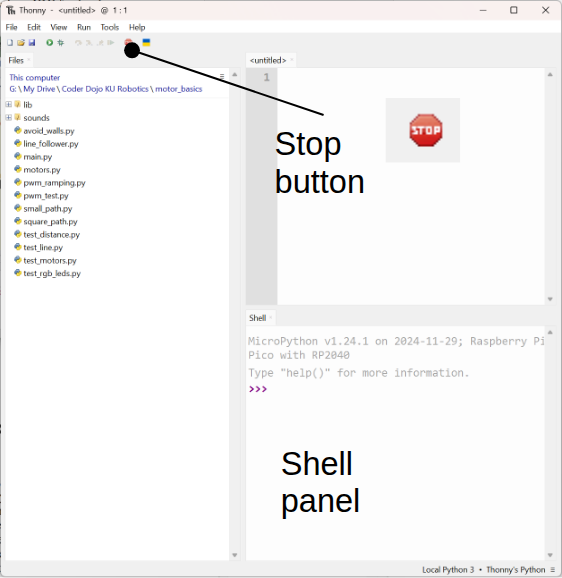
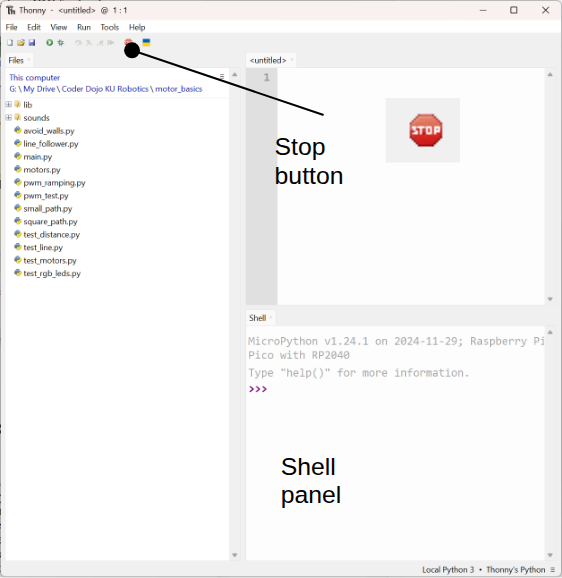
Connecting Thonny: larger connected screenshot (labels keep their size), right side reworded as 'If you see this'

Changed region(s): [[0.484, 0.7785, 0.6655, 0.9031], [0.484, 0.218, 0.6655, 0.3426]]

diff --git a/scripts/compose_connecting_thonny.py b/scripts/compose_connecting_thonny.py
@@ -37,6 +37,8 @@ FIGURES = {
     "thonny-pick-interpreter": (6, (0, 6250, 5930.3, 3489)),  # drops the blank canvas above the label
     "thonny-connected": (7, (0, 0, 2922.4, 3009.8)),  # the window only; its output snippets are code blocks in the sheet
 }
+# figures shown larger than the doc had them: shrink their label text by the same factor so captions keep their size
+LABEL_SHRINK = {"thonny-connected": 64 / 84}  # printed 64mm in the doc's layout, 84mm in the sheet
 # picture that is a plain-black line drawing, traced to a vector (picture name -> trace threshold)
 TRACED = {"100002010000058F000004790E84FCF353565544.png": 140}
 # pictures outside any drawing, copied as-is: ODT picture -> asset name (hero images are downsized)
@@ -131,6 +133,11 @@ def banner_svg():
             'stroke-width="4" stroke-dasharray="14 10"/></svg>')
 
 
+def shrink_labels(svg, factor):
+    """Scale every label's font size and line step (the leaders and pictures stay put)."""
+    return re.sub(r'(font-size|dy)="([\d.]+)"', lambda m: f'{m.group(1)}="{float(m.group(2)) * factor:.1f}"', svg)
+
+
 def figure(name, svg, box, work):
     for pic, threshold in TRACED.items():
         if pic in svg:
@@ -139,6 +146,8 @@ def figure(name, svg, box, work):
             svg = svg.replace(f"pictures/{pic}", traced.as_uri())
     svg = svg.replace('href="pictures/', f'href="{PICTURES.as_uri()}/')
     svg = svg.replace("<defs>", f'<style>@font-face {{ font-family: Arimo; src: url("{FONT.as_uri()}"); }}</style><defs>', 1)
+    if name in LABEL_SHRINK:
+        svg = shrink_labels(svg, LABEL_SHRINK[name])
     if box:
         svg = crop(svg, box)
     page = work / f"{name}.svg"

diff --git a/sheets/connecting-thonny.md b/sheets/connecting-thonny.md
@@ -80,10 +80,10 @@ We will be writing our own code, so ignore code that is already on the robot. Th
 
 :::: side
 ::: fig
-![Thonny connected to the robot, with the Stop button and Shell panel marked](thonny-connected.png){style="width:64mm"}
+![Thonny connected to the robot, with the Stop button and Shell panel marked](thonny-connected.png){style="width:84mm"}
 :::
 ::: text
-**This shows you are connected to the robot**
+**If you see this, you are connected**
 
 ```pycon
 MicroPython v1.24.1 on 2024-11-29;
@@ -92,7 +92,7 @@ Type "help()" for more information.
 >>>
 ```
 
-**Need to select the RP2040 again**
+**If you see this, select the RP2040 again**
 
 ```text {tone="error"}
 Unable to connect to COM13:
@@ -101,7 +101,7 @@ port not found
 Process ended with exit code 1.
 ```
 
-**Press Stop**
+**If you see this, press Stop**
 
 ```text {tone="error"}
 Connection lost -- EOF
